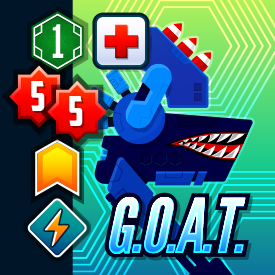
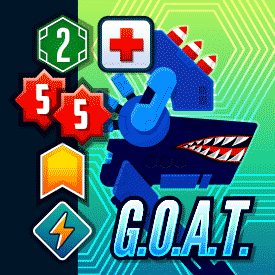
Revert GOAT cost

diff --git a/server/classes/factions/Robots.js b/server/classes/factions/Robots.js
@@ -71,7 +71,7 @@ class Robots extends Faction {
                 basic: false,
                 influence: 1,
                 attack: [5, 5],
-                cost: 1,
+                cost: 2,
                 ready: false,
                 skilled: true,
                 killed : false,
